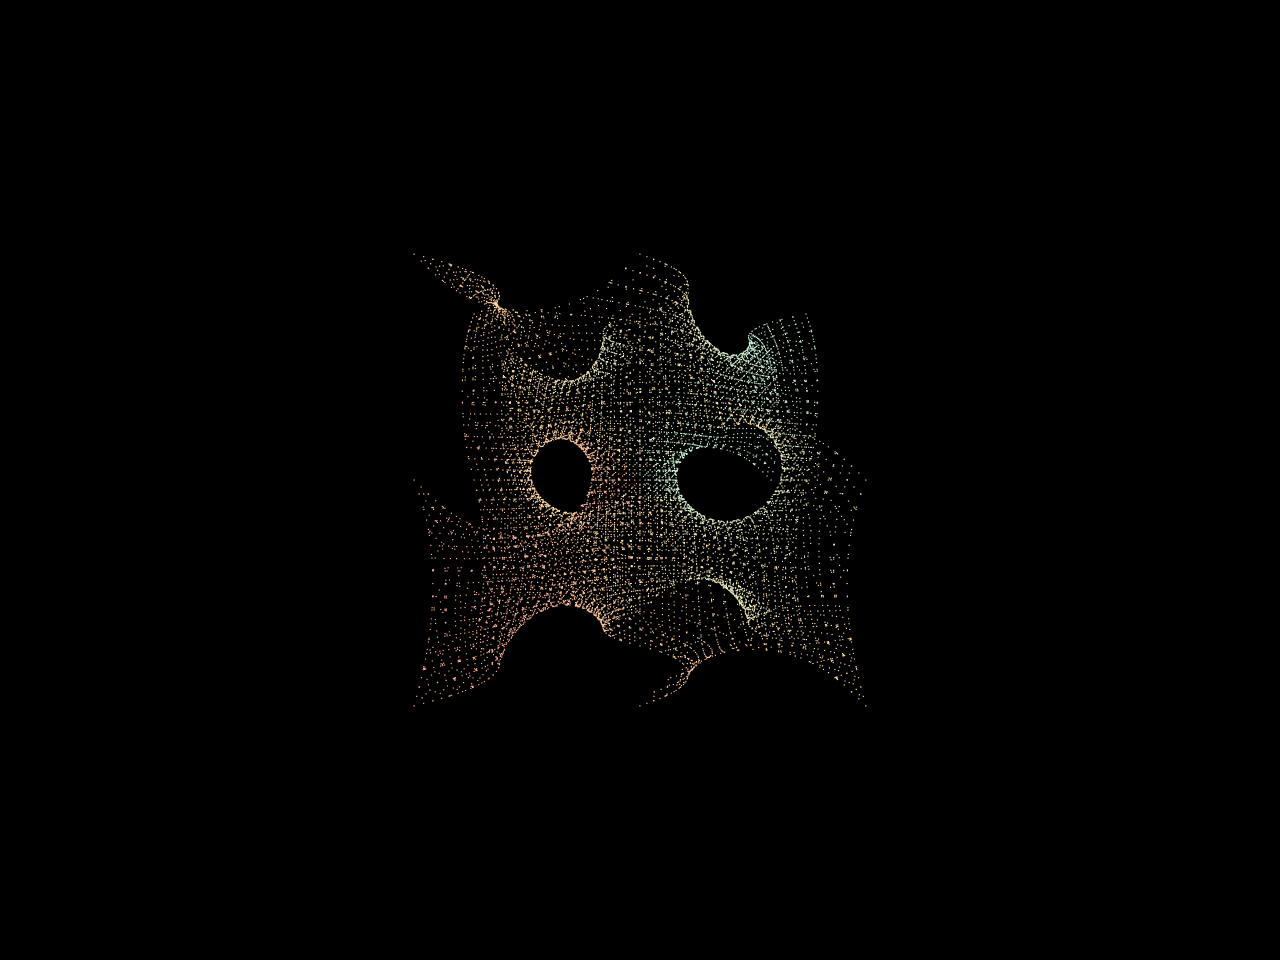
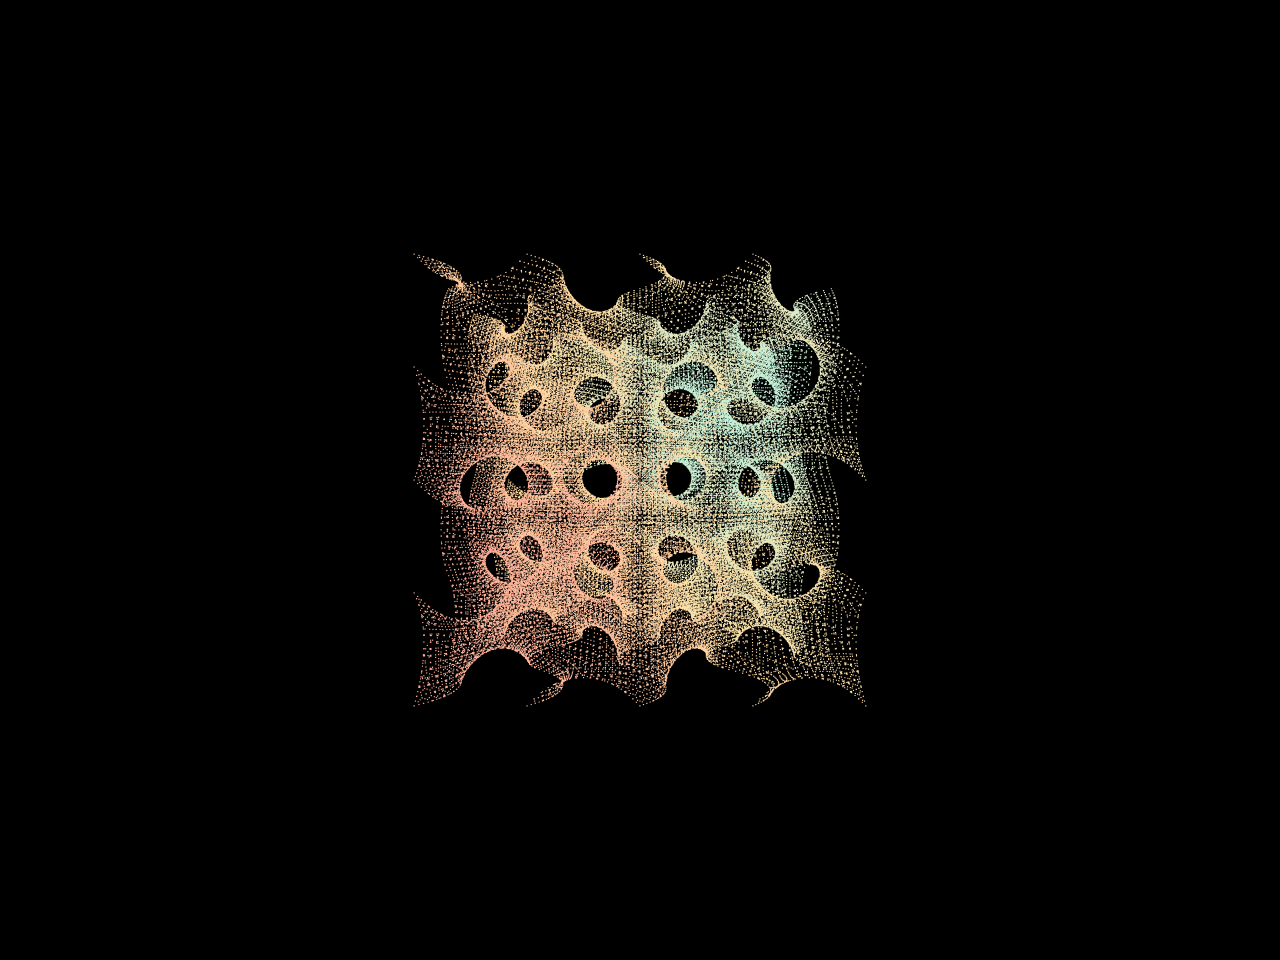
Gyroid tiles default 2, allow up to 4.

Changed region(s): [[0.3125, 0.25, 0.6875, 0.75]]

diff --git a/packages/frontend/src/utils/gyroid.ts b/packages/frontend/src/utils/gyroid.ts
@@ -3,8 +3,8 @@ import { polygoniseGrid } from './isosurface'
 const PERIOD = Math.PI * 2
 const EPS = 1e-15
 /** Fixed GPU budget so param scrubs don't remount buffers / reset `n`. */
-export const GYROID_MAX_POINTS = 80_000
-/** Interactive MC — baked like Barth GRID_RES 32. */
+export const GYROID_MAX_POINTS = 120_000
+/** Samples along one period; higher tile counts use a slightly coarser grid. */
 const GRID_RES = 32
 const TARGET_R = 1.7
 
@@ -24,7 +24,7 @@ export function clampIso(t: number): number {
 }
 
 export function clampTiles(tiles: number): number {
-	return Math.min(2, Math.max(1, Math.round(tiles)))
+	return Math.min(4, Math.max(1, Math.round(tiles)))
 }
 
 function centerAndScale(positions: Float32Array, targetRadius: number) {
@@ -87,10 +87,11 @@ function writeRibbon(colors: Float32Array, i: number, x: number, y: number, z: n
 }
 
 /** Isosurface vertices as a particle cloud (no lit triangles). */
-export function sampleGyroidCloud(iso = 0, tiles = 1): GyroidCloud {
+export function sampleGyroidCloud(iso = 0, tiles = 2): GyroidCloud {
 	const t = clampIso(iso)
 	const nTiles = clampTiles(tiles)
-	const samplesPer = GRID_RES
+	/** Keep MC cost sane as the domain grows with tiles. */
+	const samplesPer = nTiles >= 4 ? 20 : nTiles >= 3 ? 24 : GRID_RES
 	const nx = samplesPer * nTiles + 1
 	const extent = PERIOD * nTiles
 	const origin: readonly [number, number, number] = [0, 0, 0]

diff --git a/packages/frontend/src/pages/misc/gyroid.tsx b/packages/frontend/src/pages/misc/gyroid.tsx
@@ -20,13 +20,15 @@ const Gyroid = () => {
 		(): TDatData => ({
 			options: {
 				t: { initialValue: 0, min: -1.2, max: 1.2, step: 0.01 },
-				tiles: { initialValue: 1, min: 1, max: 2, step: 1 },
+				tiles: { initialValue: 2, min: 1, max: 4, step: 1 },
 			},
 			examples: [
-				{ t: 0, tiles: 1 },
-				{ t: 0.45, tiles: 1 },
-				{ t: -0.35, tiles: 1 },
 				{ t: 0, tiles: 2 },
+				{ t: 0.45, tiles: 2 },
+				{ t: -0.35, tiles: 2 },
+				{ t: 0, tiles: 3 },
+				{ t: 0, tiles: 4 },
+				{ t: 0, tiles: 1 },
 			],
 		}),
 		[],

diff --git a/packages/frontend/src/__tests__/misc/gyroid.test.ts b/packages/frontend/src/__tests__/misc/gyroid.test.ts
@@ -64,7 +64,7 @@ describe('sampleGyroidCloud', () => {
 		expect(clampIso(9)).toBe(1.2)
 		expect(clampIso(-9)).toBe(-1.2)
 		expect(clampTiles(0)).toBe(1)
-		expect(clampTiles(8)).toBe(2)
+		expect(clampTiles(8)).toBe(4)
 	})
 })
 
